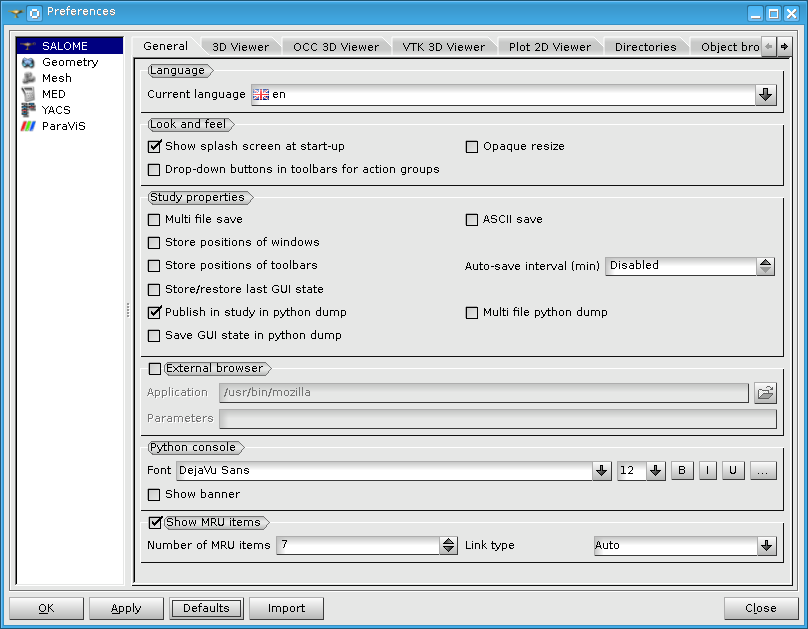
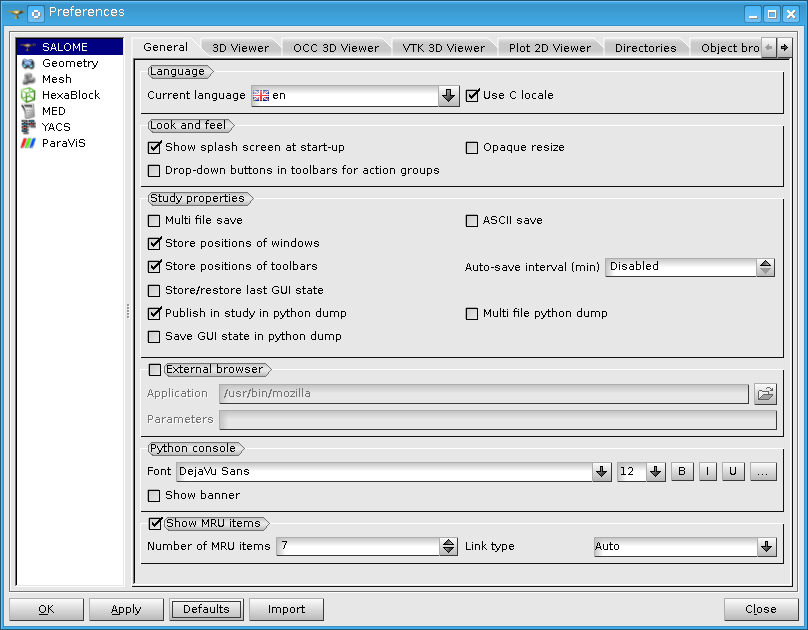
Implementation of the ACTION 61.7 from the COTECH61: Add preference to set C locale for the application by default.

diff --git a/src/LightApp/resources/LightApp_msg_en.ts b/src/LightApp/resources/LightApp_msg_en.ts
@@ -95,6 +95,11 @@ CEA/DEN, CEDRAT, EDF R&amp;D, LEG, PRINCIPIA R&amp;D, BUREAU VERITAS</translatio
 The changes will be applied on the next application session.</translation>
     </message>
     <message>
+        <source>LOCALE_CHANGED</source>
+        <translation>Application locale has been changed.
+The changes will be applied on the next application session.</translation>
+    </message>
+    <message>
         <source>MEN_DESK_THEME</source>
         <translation>Theme</translation>
     </message>
@@ -589,6 +594,10 @@ The changes will be applied on the next application session.</translation>
     <message>
         <source>PREF_CURRENT_LANGUAGE</source>
         <translation>Current language</translation>
+    </message>
+    <message>
+        <source>PREF_CURRENT_LOCALE</source>
+        <translation>Use C locale</translation>
     </message>
     <message>
         <source>PREF_GROUP_LOOK_AND_FEEL</source>

diff --git a/src/Qtx/QtxResourceMgr.h b/src/Qtx/QtxResourceMgr.h
@@ -141,8 +141,8 @@ public:
   QString          option( const QString& ) const;
   void             setOption( const QString&, const QString& );
 
-  QPixmap          defaultPixmap() const;
-  virtual void     setDefaultPixmap( const QPixmap& );
+  static QPixmap  defaultPixmap();
+  static void     setDefaultPixmap( const QPixmap& );
 
   QString          resSection() const;
   QString          langSection() const;
@@ -201,7 +201,7 @@ private:
   ResList          myResources;               //!< resources list
   bool             myCheckExist;              //!< "check existance" flag
   TransListMap     myTranslator;              //!< map of loaded translators
-  QPixmap*         myDefaultPix;              //!< default icon
+  static QPixmap*  myDefaultPix;              //!< default icon
   bool             myIsPixmapCached;          //!< "cached pixmaps" flag
 
   bool             myHasUserValues;           //!< \c true if user preferences has been read
